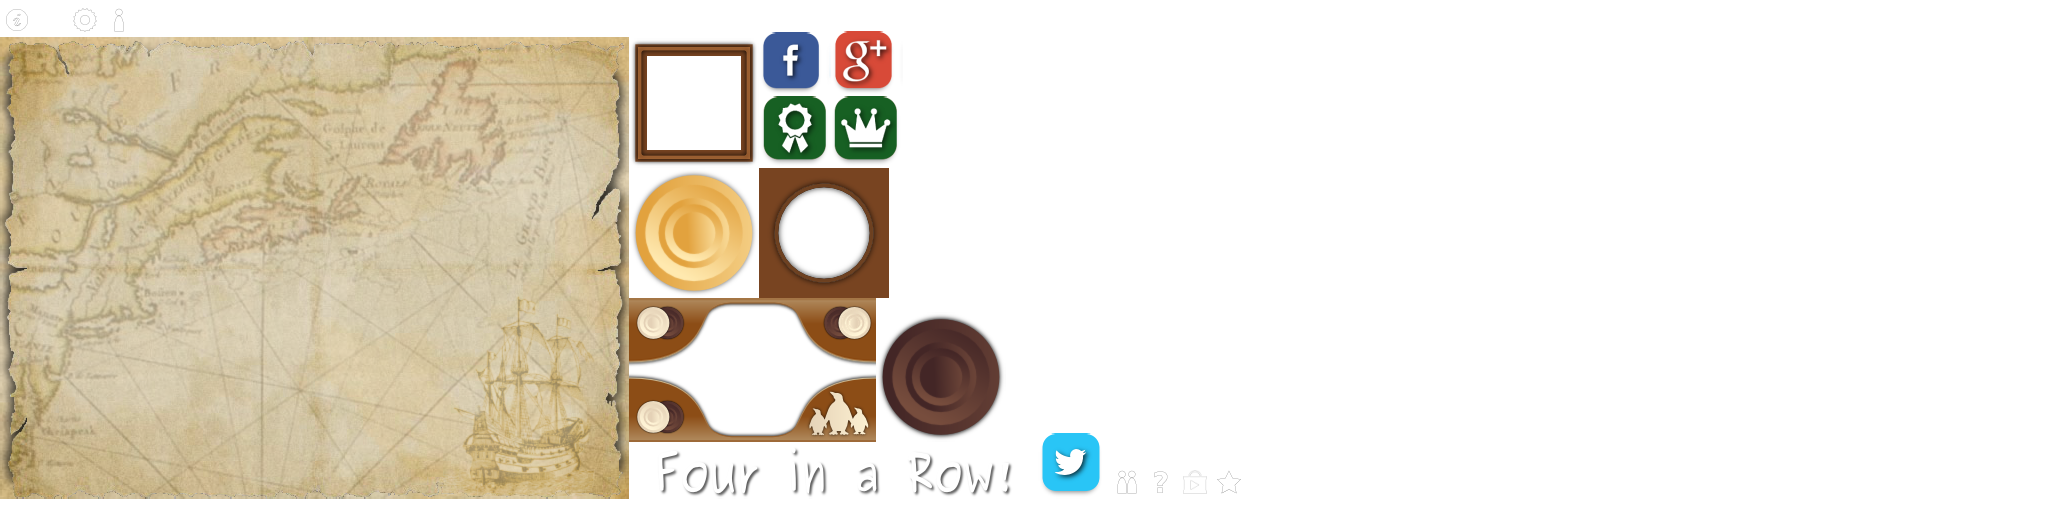
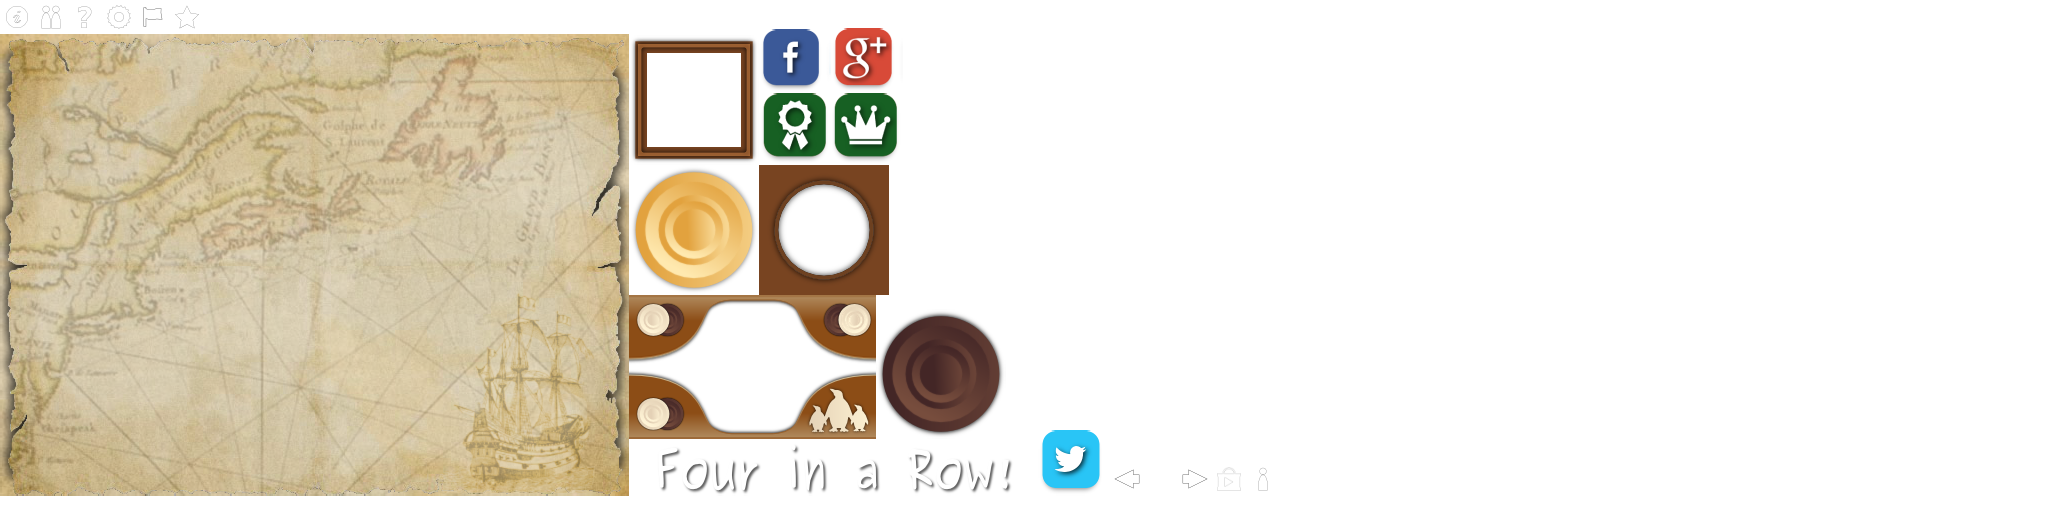
FEATURE: added resign and leave buttons on GameScreen

diff --git a/fourinaline/src/it/alcacoop/fourinaline/layers/GameScreen.java b/fourinaline/src/it/alcacoop/fourinaline/layers/GameScreen.java
@@ -1,6 +1,7 @@
 package it.alcacoop.fourinaline.layers;
 
 import it.alcacoop.fourinaline.FourInALine;
+import it.alcacoop.fourinaline.actors.IconButton;
 import it.alcacoop.fourinaline.actors.PlayerBlock;
 import it.alcacoop.fourinaline.actors.UIDialog;
 import it.alcacoop.fourinaline.fsm.FSM.Events;
@@ -14,6 +15,8 @@ import com.badlogic.gdx.scenes.scene2d.InputListener;
 import com.badlogic.gdx.scenes.scene2d.actions.Actions;
 import com.badlogic.gdx.scenes.scene2d.ui.Label;
 import com.badlogic.gdx.scenes.scene2d.ui.Table;
+import com.badlogic.gdx.scenes.scene2d.ui.TextButton.TextButtonStyle;
+import com.badlogic.gdx.scenes.scene2d.utils.ClickListener;
 
 
 public class GameScreen extends BaseScreen {
@@ -21,6 +24,7 @@ public class GameScreen extends BaseScreen {
   private Table table;
   private PlayerBlock players[];
   private Label nMatchTo;
+  private IconButton leave, resign;
 
   public GameScreen() {
     players = new PlayerBlock[2];
@@ -31,6 +35,28 @@ public class GameScreen extends BaseScreen {
     players[1].setName("CPU (L" + MatchState.AILevel + ")");
     players[1].setColor(2);
     nMatchTo = new Label("", FourInALine.Instance.skin);
+
+    ClickListener clBack = new ClickListener() {
+      public void clicked(InputEvent event, float x, float y) {
+        if (UIDialog.isOpened())
+          return;
+        UIDialog.getYesNoDialog(Events.LEAVE_MATCH, "Really leave current match?");
+      };
+    };
+
+    ClickListener clResign = new ClickListener() {
+      public void clicked(InputEvent event, float x, float y) {
+        if (UIDialog.isOpened())
+          return;
+        UIDialog.getYesNoDialog(Events.RESIGN_GAME, "Really resign current game?");
+      };
+    };
+
+    TextButtonStyle st = FourInALine.Instance.skin.get("button", TextButtonStyle.class);
+    leave = new IconButton("", FourInALine.Instance.atlas.findRegion("back"), st, true, false, false);
+    leave.addListener(clBack);
+    resign = new IconButton("", FourInALine.Instance.atlas.findRegion("resign"), st, true, false, false);
+    resign.addListener(clResign);
 
     table = new Table();
     table.setWidth(stage.getWidth() * 0.85f);
@@ -59,7 +85,6 @@ public class GameScreen extends BaseScreen {
     // Table.drawDebug(stage);
   }
 
-
   @Override
   public void initialize() {
     table.clear();
@@ -78,21 +103,25 @@ public class GameScreen extends BaseScreen {
     Table tp = new Table();
     tp.debug();
     tp.setFillParent(false);
-    tp.add(nMatchTo).expandX();
+    tp.add(nMatchTo).expandX().colspan(2);
 
     tp.row();
-    tp.add().height(table.getHeight() / 40);
+    tp.add().height(table.getHeight() / 40).colspan(2);
 
     tp.row();
-    tp.add(players[0]).left().fill().expandX();
+    tp.add(players[0]).left().fill().expandX().colspan(2);
 
     tp.row();
-    tp.add().height(table.getHeight() / 22);
+    tp.add().height(table.getHeight() / 22).colspan(2);
 
     tp.row();
-    tp.add(players[1]).fill().left().expandX();
+    tp.add(players[1]).fill().left().expandX().colspan(2);
     tp.row();
-    tp.add().expand();
+    tp.add().expand().colspan(2);
+
+    tp.row();
+    tp.add(leave).expandX().fill().padLeft(table.getHeight() / 80).padRight(table.getHeight() / 80);
+    tp.add(resign).expandX().fill().padLeft(table.getHeight() / 80).padRight(table.getHeight() / 80);
 
     tp.setBackground(FourInALine.Instance.skin.getDrawable("default-window"));
 

diff --git a/fourinaline/src/it/alcacoop/fourinaline/fsm/FSM.java b/fourinaline/src/it/alcacoop/fourinaline/fsm/FSM.java
@@ -58,7 +58,7 @@ interface State {
 public class FSM implements Context {
 
   public enum Events {
-    NOOP, BUTTON_CLICKED, GAME_TERMINATED, BOARD_RESETTED, MOVE_END, CLICKED_COL, AI_EVALUETED, START_GAME, LEAVE_GAME, LEAVE_MATCH
+    NOOP, BUTTON_CLICKED, GAME_TERMINATED, BOARD_RESETTED, MOVE_END, CLICKED_COL, AI_EVALUETED, START_GAME, LEAVE_GAME, LEAVE_MATCH, RESIGN_GAME
   }
 
   public enum States implements State {
